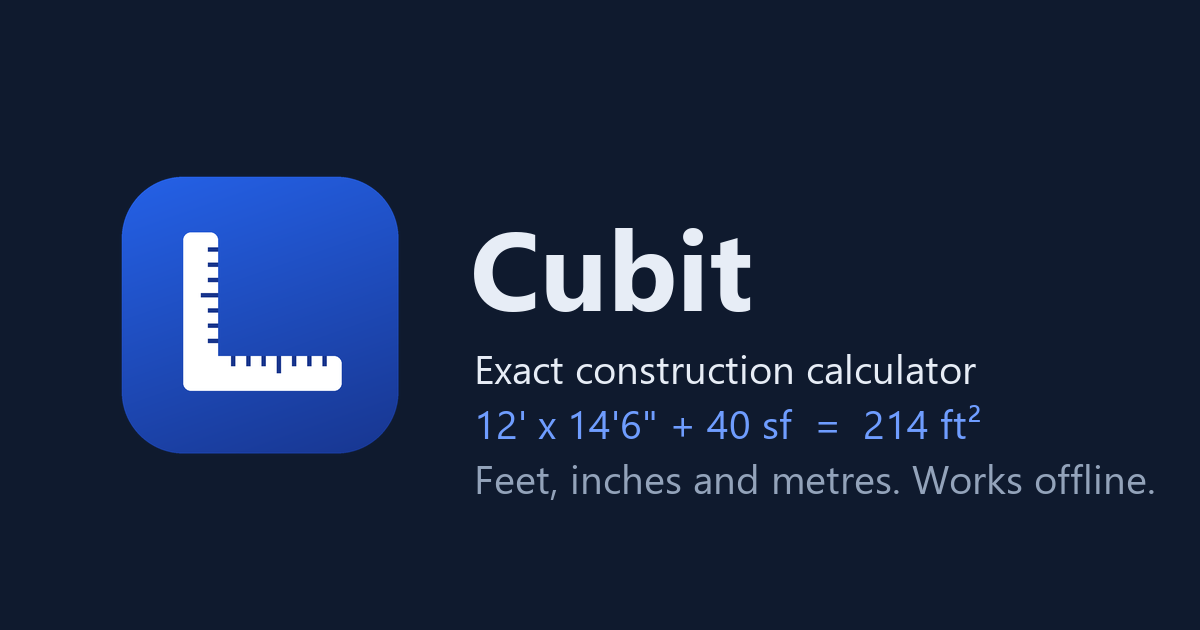
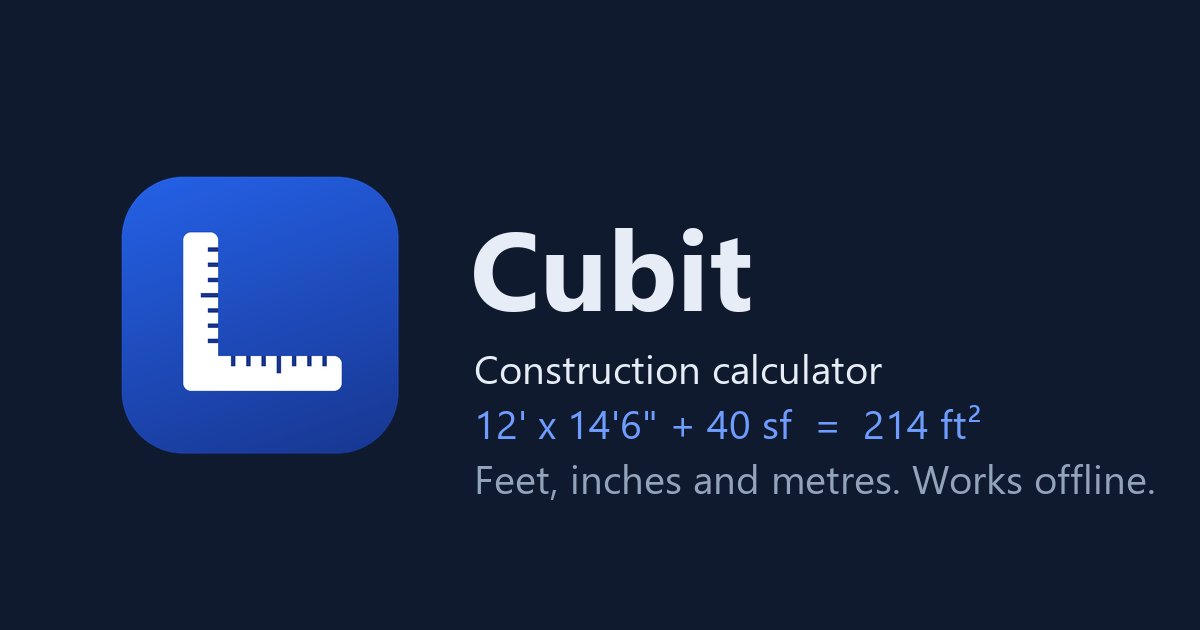
Describe Cubit as a construction calculator

Changed region(s): [[0.4008, 0.573, 0.8325, 0.6333]]

diff --git a/index.html b/index.html
@@ -4,7 +4,7 @@
     <meta charset="UTF-8" />
     <meta name="viewport" content="width=device-width, initial-scale=1, viewport-fit=cover, interactive-widget=resizes-content" />
     <title>Cubit</title>
-    <meta name="description" content="An exact construction calculator for feet, inches and metres. Type measurements as they're written on drawings. Works offline." />
+    <meta name="description" content="A construction calculator for feet, inches and metres. Type measurements as they're written on drawings. Works offline." />
     <meta name="color-scheme" content="light dark" />
     <meta name="theme-color" content="#f2f5f9" media="(prefers-color-scheme: light)" />
     <meta name="theme-color" content="#0f1a2e" media="(prefers-color-scheme: dark)" />
@@ -17,8 +17,8 @@
 
     <!-- Link previews in Teams, WhatsApp and text messages need absolute URLs. -->
     <meta property="og:type" content="website" />
-    <meta property="og:title" content="Cubit, an exact construction calculator" />
-    <meta property="og:description" content="Feet-inches and metric, mixed freely, with exact answers in every unit. Install it or use it in the browser; works offline." />
+    <meta property="og:title" content="Cubit, a construction calculator" />
+    <meta property="og:description" content="Feet-inches and metric, mixed freely, with the answer in every unit at once. Install it or use it in the browser; works offline." />
     <meta property="og:url" content="https://mohamedaatif-caivan.github.io/cubit/" />
     <meta property="og:image" content="https://mohamedaatif-caivan.github.io/cubit/og.png" />
     <meta property="og:image:width" content="1200" />

diff --git a/vite.config.ts b/vite.config.ts
@@ -18,7 +18,7 @@ export default defineConfig({
       manifest: {
         name: 'Cubit',
         short_name: 'Cubit',
-        description: 'An exact construction calculator for feet, inches and metres.',
+        description: 'A construction calculator for feet, inches and metres.',
         id: './',
         start_url: './',
         scope: './',

diff --git a/scripts/make_icons.py b/scripts/make_icons.py
@@ -106,7 +106,7 @@ def share_image() -> Image.Image:
     title = font(["segoeuib.ttf", "C:/Windows/Fonts/segoeuib.ttf", "DejaVuSans-Bold.ttf"], 112)
     body = font(["segoeui.ttf", "C:/Windows/Fonts/segoeui.ttf", "DejaVuSans.ttf"], 40)
     d.text((470, 190), "Cubit", font=title, fill=(231, 237, 246))
-    d.text((474, 340), "Exact construction calculator", font=body, fill=(231, 237, 246))
+    d.text((474, 340), "Construction calculator", font=body, fill=(231, 237, 246))
     d.text((474, 395), "12' x 14'6\" + 40 sf  =  214 ft²", font=body, fill=(111, 157, 255))
     d.text((474, 450), "Feet, inches and metres. Works offline.", font=body, fill=(147, 163, 186))
     return img

diff --git a/README.md b/README.md
@@ -2,7 +2,7 @@
 
 **Open it: https://mohamedaatif-caivan.github.io/cubit/**
 
-A fast, exact construction calculator for feet, inches and metres, as an installable web app. It's the web version of the Cubit desktop app and gives the same answers: the engine is a TypeScript port of the desktop engine and is checked against the same hand-checked tables and tests.
+A fast construction calculator for feet, inches and metres, as an installable web app. It's the web version of the Cubit desktop app and gives the same answers: the engine is a TypeScript port of the desktop engine and is checked against the same hand-checked tables and tests.
 
 Open it in any browser, or install it so it gets its own window and icon:
 
